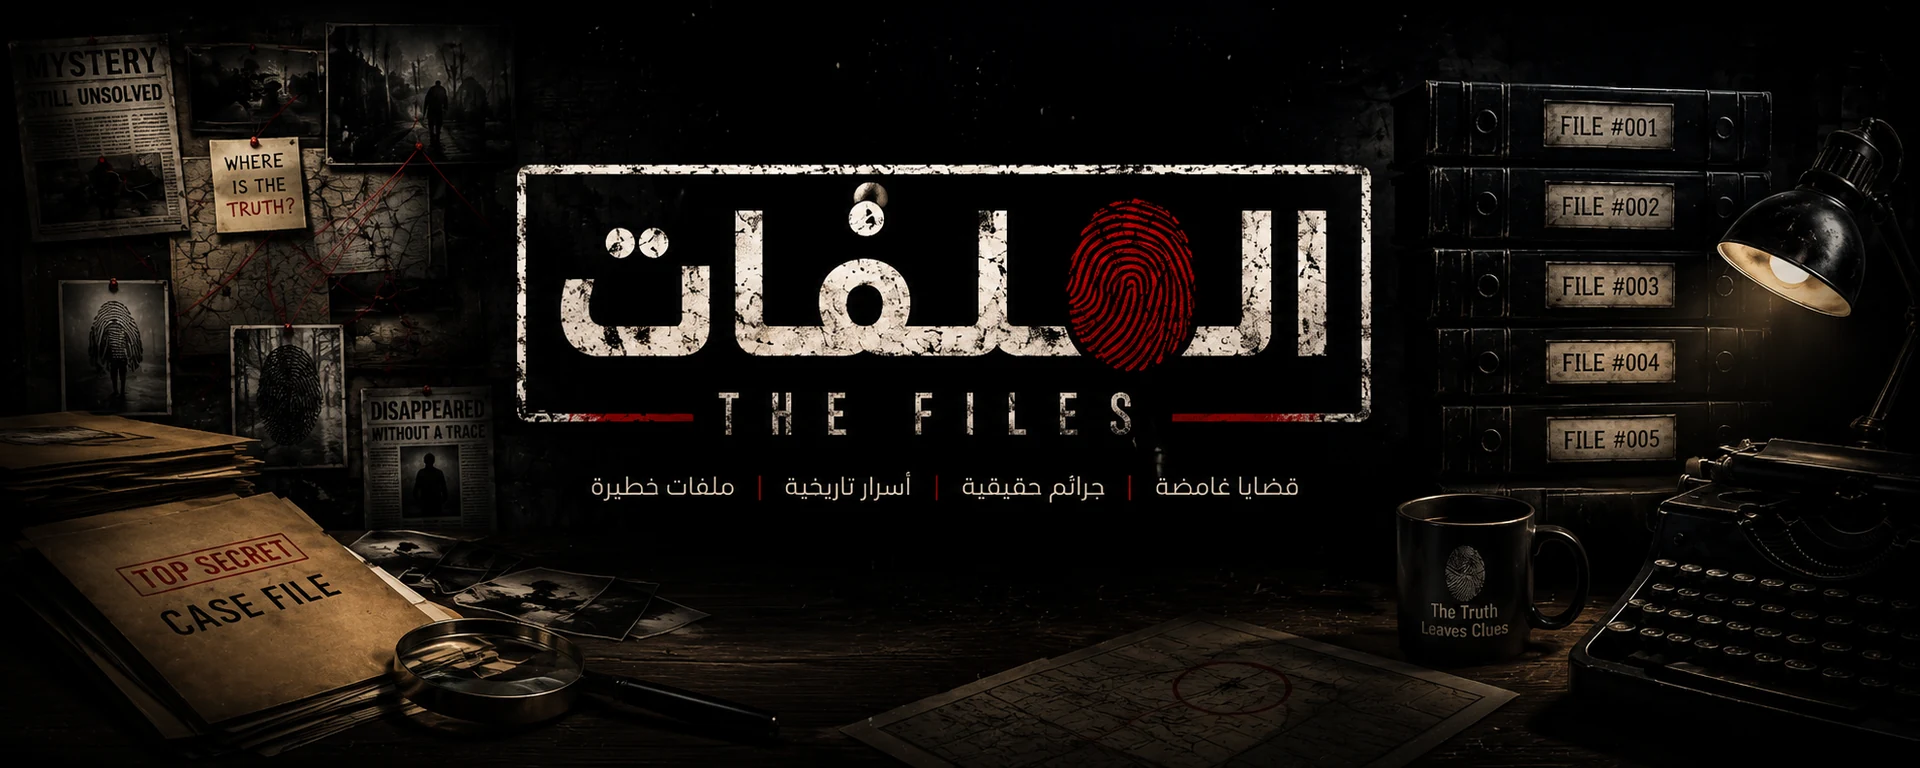
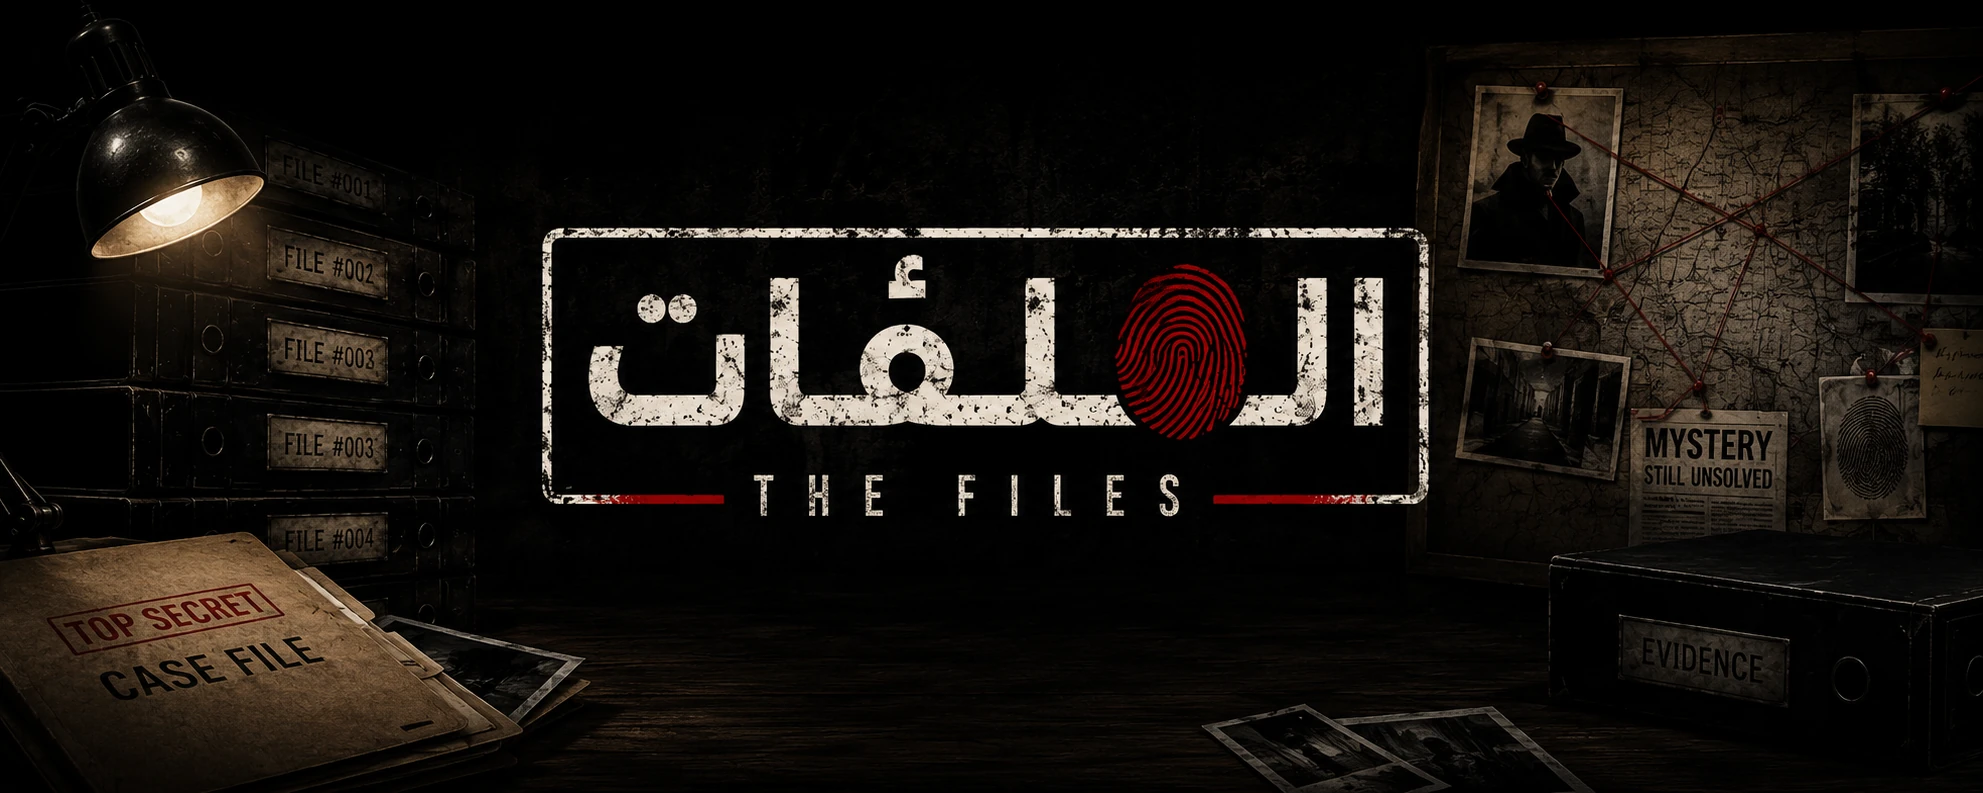
Add files via upload

Changed region(s): [[0.0, 0.0312, 1.0, 0.9688], [0.4688, 0.7188, 1.0, 1.0], [0.6875, 0.7812, 0.7188, 0.8125]]

diff --git a/assets/css/style.css b/assets/css/style.css
@@ -137,3 +137,115 @@ img{display:block;max-width:100%}
   .grid,.method{grid-template-columns:1fr}
   .section-head{align-items:start;flex-direction:column}
 }
+
+
+/* ===== v1.1 layout correction ===== */
+.site-header{
+  height:72px;
+  display:block;
+}
+.nav{
+  height:72px;
+  min-height:72px;
+  display:flex;
+  align-items:center;
+  justify-content:space-between;
+  gap:28px;
+}
+.logo{
+  display:flex;
+  align-items:center;
+  flex:0 0 auto;
+}
+.logo img{
+  display:block;
+  width:180px !important;
+  max-width:180px !important;
+  height:54px !important;
+  max-height:54px !important;
+  object-fit:contain;
+}
+.nav-links{
+  display:flex;
+  align-items:center;
+  justify-content:flex-start;
+  gap:24px;
+  margin-right:auto;
+  white-space:nowrap;
+}
+.menu{
+  display:none !important;
+}
+.hero{
+  min-height:calc(100vh - 72px);
+  align-items:end;
+  background:
+    linear-gradient(180deg,rgba(0,0,0,.06),rgba(0,0,0,.18) 42%,#060606 100%),
+    linear-gradient(90deg,rgba(0,0,0,.18),rgba(0,0,0,.02)),
+    url("../images/hero-archive.webp") center center / cover no-repeat !important;
+}
+.hero-content{
+  max-width:690px;
+  padding:0 0 58px;
+}
+.hero h1{
+  font-size:clamp(2.8rem,6vw,5.6rem);
+  margin:12px 0 14px;
+}
+.hero p{
+  max-width:620px;
+}
+@media(max-width:900px){
+  .nav-links{
+    display:none;
+    position:absolute;
+    right:16px;
+    left:16px;
+    top:72px;
+    margin:0;
+    background:#090909;
+    border:1px solid #222;
+    border-radius:10px;
+    padding:16px;
+    flex-direction:column;
+    align-items:flex-start;
+    white-space:normal;
+  }
+  .nav-links.open{display:flex}
+  .menu{
+    display:block !important;
+    margin-right:auto;
+  }
+  .logo img{
+    width:145px !important;
+    max-width:145px !important;
+    height:46px !important;
+    max-height:46px !important;
+  }
+  .hero{
+    min-height:680px;
+    background-position:53% center !important;
+  }
+  .hero-content{
+    padding-bottom:42px;
+  }
+}
+@media(max-width:560px){
+  .hero{
+    min-height:620px;
+    background-position:52% center !important;
+  }
+  .hero::before{
+    content:"";
+    position:absolute;
+    inset:0;
+    z-index:-1;
+    background:linear-gradient(180deg,rgba(0,0,0,.12),rgba(0,0,0,.42) 55%,#060606 100%);
+  }
+  .hero-content{
+    padding-bottom:34px;
+  }
+  .hero h1{
+    font-size:2.45rem;
+  }
+}

diff --git a/404.html b/404.html
@@ -13,7 +13,7 @@
 <link rel="stylesheet" href="assets/css/style.css">
 <title>الملف غير موجود — The Files</title>
 </head><body><header class="site-header"><div class="container nav">
-<a class="logo" href="index.html"><img src="assets/images/logo-horizontal.webp" alt="الملفات - The Files"></a>
+<a class="logo" href="index.html"><img src="assets/images/logo-header.png" alt="الملفات - The Files"></a>
 <button class="menu" aria-label="فتح القائمة">☰</button>
 <nav class="nav-links">
 <a href="index.html">الرئيسية</a>
@@ -26,6 +26,6 @@
 <div class="kicker">ERROR 404</div><h1 style="font-size:clamp(3rem,9vw,8rem);margin:10px 0">الملف غير موجود</h1>
 <p style="color:#aaa">ربما تم نقل الملف أو لم تتم إضافته إلى الأرشيف بعد.</p>
 <a class="btn btn-red" href="index.html">العودة للرئيسية</a></div></section></main><footer class="footer"><div class="container footer-row">
-<img src="assets/images/logo-horizontal.webp" alt="The Files">
+<img src="assets/images/logo-header.png" alt="The Files">
 <div>© <span data-year></span> Mohamed Ramzy — جميع الحقوق محفوظة.</div>
 </div></footer><script src="assets/js/main.js"></script></body></html>

diff --git a/cases/frank-abagnale.html b/cases/frank-abagnale.html
@@ -13,7 +13,7 @@
 <link rel="stylesheet" href="../assets/css/style.css">
 <title>الملف رقم 4 | فرانك أباغنيل — The Files</title>
 </head><body><header class="site-header"><div class="container nav">
-<a class="logo" href="../index.html"><img src="../assets/images/logo-horizontal.webp" alt="الملفات - The Files"></a>
+<a class="logo" href="../index.html"><img src="../assets/images/logo-header.png" alt="الملفات - The Files"></a>
 <button class="menu" aria-label="فتح القائمة">☰</button>
 <nav class="nav-links">
 <a href="../index.html">الرئيسية</a>
@@ -70,6 +70,6 @@
 <a class="btn btn-red" href="../index.html#archive">العودة إلى الأرشيف</a>
 </aside>
 </div></section></main><footer class="footer"><div class="container footer-row">
-<img src="../assets/images/logo-horizontal.webp" alt="The Files">
+<img src="../assets/images/logo-header.png" alt="The Files">
 <div>© <span data-year></span> Mohamed Ramzy — جميع الحقوق محفوظة.</div>
 </div></footer><script src="../assets/js/main.js"></script></body></html>

diff --git a/cases/db-cooper.html b/cases/db-cooper.html
@@ -13,7 +13,7 @@
 <link rel="stylesheet" href="../assets/css/style.css">
 <title>الملف رقم 3 | دي بي كوبر — The Files</title>
 </head><body><header class="site-header"><div class="container nav">
-<a class="logo" href="../index.html"><img src="../assets/images/logo-horizontal.webp" alt="الملفات - The Files"></a>
+<a class="logo" href="../index.html"><img src="../assets/images/logo-header.png" alt="الملفات - The Files"></a>
 <button class="menu" aria-label="فتح القائمة">☰</button>
 <nav class="nav-links">
 <a href="../index.html">الرئيسية</a>
@@ -70,6 +70,6 @@
 <a class="btn btn-red" href="../index.html#archive">العودة إلى الأرشيف</a>
 </aside>
 </div></section></main><footer class="footer"><div class="container footer-row">
-<img src="../assets/images/logo-horizontal.webp" alt="The Files">
+<img src="../assets/images/logo-header.png" alt="The Files">
 <div>© <span data-year></span> Mohamed Ramzy — جميع الحقوق محفوظة.</div>
 </div></footer><script src="../assets/js/main.js"></script></body></html>

diff --git a/cases/elisa-lam.html b/cases/elisa-lam.html
@@ -13,7 +13,7 @@
 <link rel="stylesheet" href="../assets/css/style.css">
 <title>الملف رقم 2 | إليسا لام — The Files</title>
 </head><body><header class="site-header"><div class="container nav">
-<a class="logo" href="../index.html"><img src="../assets/images/logo-horizontal.webp" alt="الملفات - The Files"></a>
+<a class="logo" href="../index.html"><img src="../assets/images/logo-header.png" alt="الملفات - The Files"></a>
 <button class="menu" aria-label="فتح القائمة">☰</button>
 <nav class="nav-links">
 <a href="../index.html">الرئيسية</a>
@@ -70,6 +70,6 @@
 <a class="btn btn-red" href="../index.html#archive">العودة إلى الأرشيف</a>
 </aside>
 </div></section></main><footer class="footer"><div class="container footer-row">
-<img src="../assets/images/logo-horizontal.webp" alt="The Files">
+<img src="../assets/images/logo-header.png" alt="The Files">
 <div>© <span data-year></span> Mohamed Ramzy — جميع الحقوق محفوظة.</div>
 </div></footer><script src="../assets/js/main.js"></script></body></html>

diff --git a/cases/green-boots.html b/cases/green-boots.html
@@ -13,7 +13,7 @@
 <link rel="stylesheet" href="../assets/css/style.css">
 <title>الملف رقم 1 | جرين بوتس — The Files</title>
 </head><body><header class="site-header"><div class="container nav">
-<a class="logo" href="../index.html"><img src="../assets/images/logo-horizontal.webp" alt="الملفات - The Files"></a>
+<a class="logo" href="../index.html"><img src="../assets/images/logo-header.png" alt="الملفات - The Files"></a>
 <button class="menu" aria-label="فتح القائمة">☰</button>
 <nav class="nav-links">
 <a href="../index.html">الرئيسية</a>
@@ -70,6 +70,6 @@
 <a class="btn btn-red" href="../index.html#archive">العودة إلى الأرشيف</a>
 </aside>
 </div></section></main><footer class="footer"><div class="container footer-row">
-<img src="../assets/images/logo-horizontal.webp" alt="The Files">
+<img src="../assets/images/logo-header.png" alt="The Files">
 <div>© <span data-year></span> Mohamed Ramzy — جميع الحقوق محفوظة.</div>
 </div></footer><script src="../assets/js/main.js"></script></body></html>

diff --git a/cases/jimmy-hoffa.html b/cases/jimmy-hoffa.html
@@ -13,7 +13,7 @@
 <link rel="stylesheet" href="../assets/css/style.css">
 <title>الملف رقم 5 | جيمي هوفا — The Files</title>
 </head><body><header class="site-header"><div class="container nav">
-<a class="logo" href="../index.html"><img src="../assets/images/logo-horizontal.webp" alt="الملفات - The Files"></a>
+<a class="logo" href="../index.html"><img src="../assets/images/logo-header.png" alt="الملفات - The Files"></a>
 <button class="menu" aria-label="فتح القائمة">☰</button>
 <nav class="nav-links">
 <a href="../index.html">الرئيسية</a>
@@ -70,6 +70,6 @@
 <a class="btn btn-red" href="../index.html#archive">العودة إلى الأرشيف</a>
 </aside>
 </div></section></main><footer class="footer"><div class="container footer-row">
-<img src="../assets/images/logo-horizontal.webp" alt="The Files">
+<img src="../assets/images/logo-header.png" alt="The Files">
 <div>© <span data-year></span> Mohamed Ramzy — جميع الحقوق محفوظة.</div>
 </div></footer><script src="../assets/js/main.js"></script></body></html>

diff --git a/index.html b/index.html
@@ -13,7 +13,7 @@
 <link rel="stylesheet" href="assets/css/style.css">
 <title>الملفات | The Files</title>
 </head><body><header class="site-header"><div class="container nav">
-<a class="logo" href="index.html"><img src="assets/images/logo-horizontal.webp" alt="الملفات - The Files"></a>
+<a class="logo" href="index.html"><img src="assets/images/logo-header.png" alt="الملفات - The Files"></a>
 <button class="menu" aria-label="فتح القائمة">☰</button>
 <nav class="nav-links">
 <a href="index.html">الرئيسية</a>
@@ -104,6 +104,6 @@
 <p>مشروع وثائقي مستقل من إعداد وتقديم محمد رمزي.</p>
 </div></div></section>
 </main><footer class="footer"><div class="container footer-row">
-<img src="assets/images/logo-horizontal.webp" alt="The Files">
+<img src="assets/images/logo-header.png" alt="The Files">
 <div>© <span data-year></span> Mohamed Ramzy — جميع الحقوق محفوظة.</div>
 </div></footer><script src="assets/js/main.js"></script></body></html>

diff --git a/README.md b/README.md
@@ -1,4 +1,4 @@
-# The Files v1.0
+# The Files v1.1
 
 النسخة الرسمية لموقع برنامج «الملفات» بهوية محمد رمزي.
 
@@ -21,3 +21,10 @@
 
 ## تعديل المصادر
 استبدل روابط `href="#"` بالروابط الحقيقية.
+
+
+## إصلاحات v1.1
+- إصلاح الهيدر وحجم اللوجو.
+- إخفاء زر القائمة على الكمبيوتر.
+- استبدال خلفية الواجهة بالصورة السينمائية الصحيحة.
+- تحسين العرض على الموبايل.
